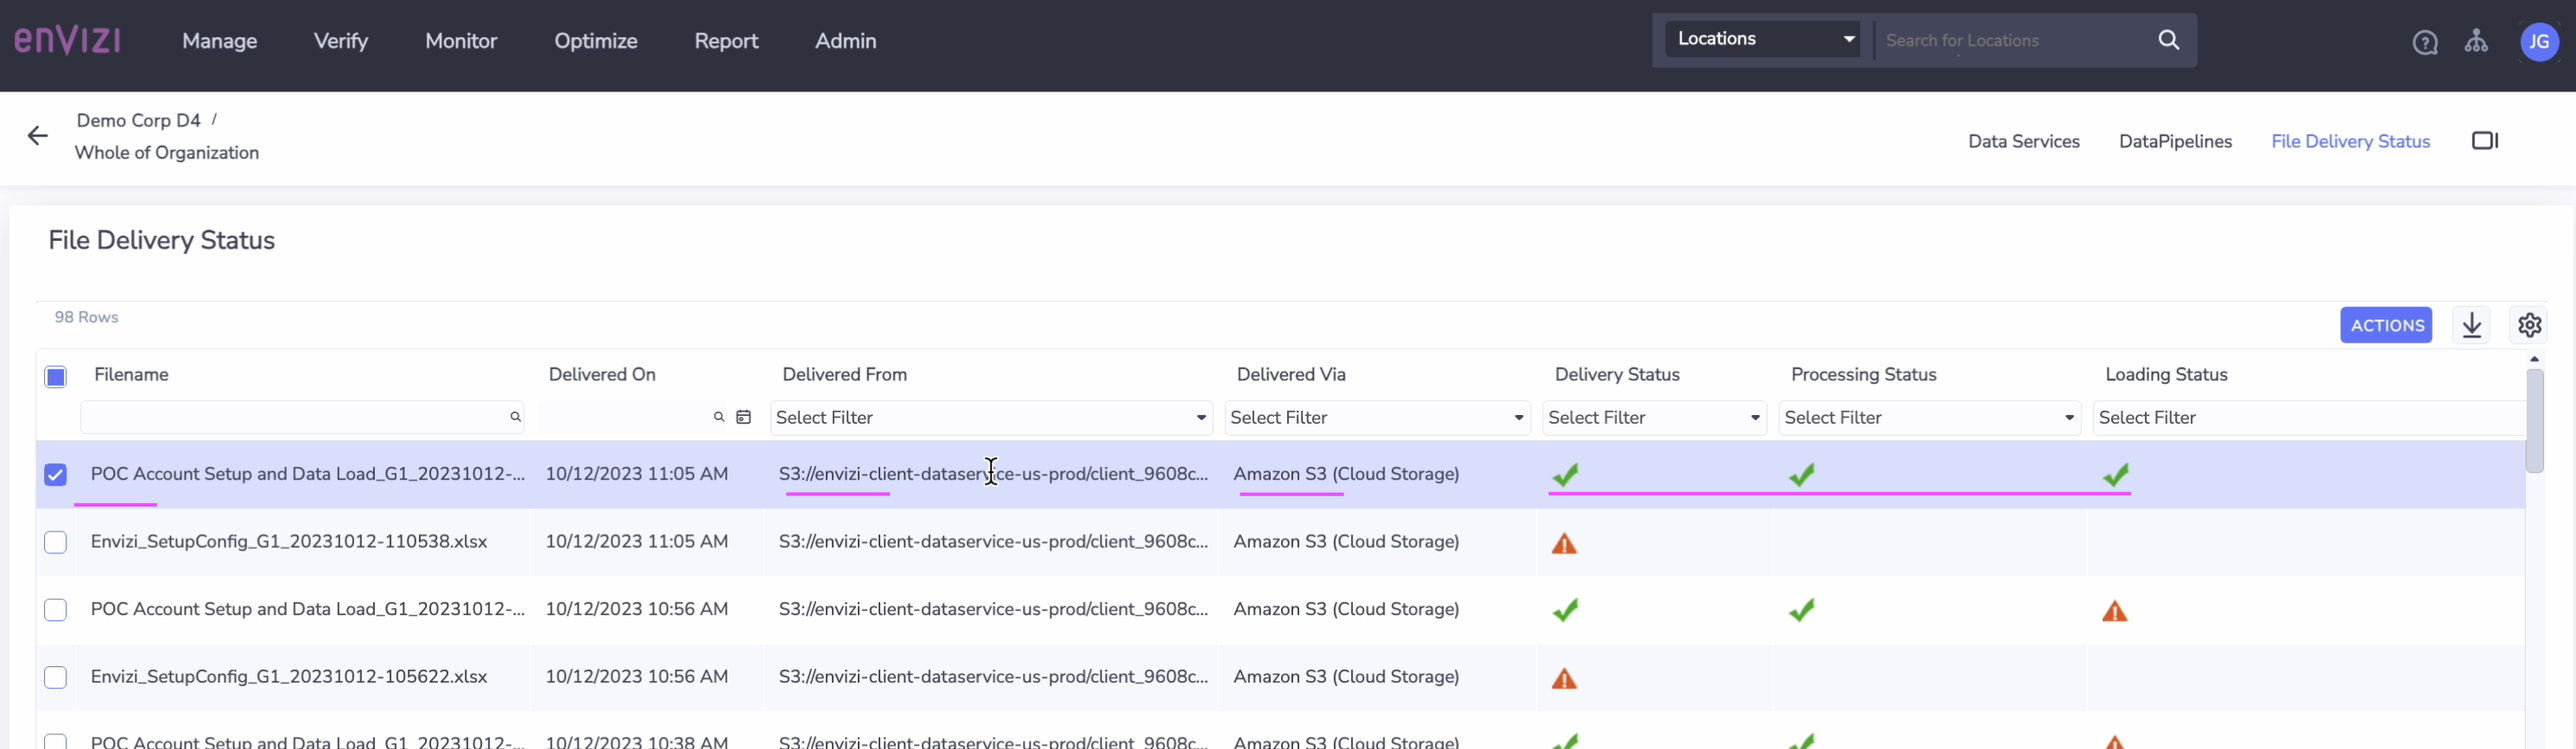
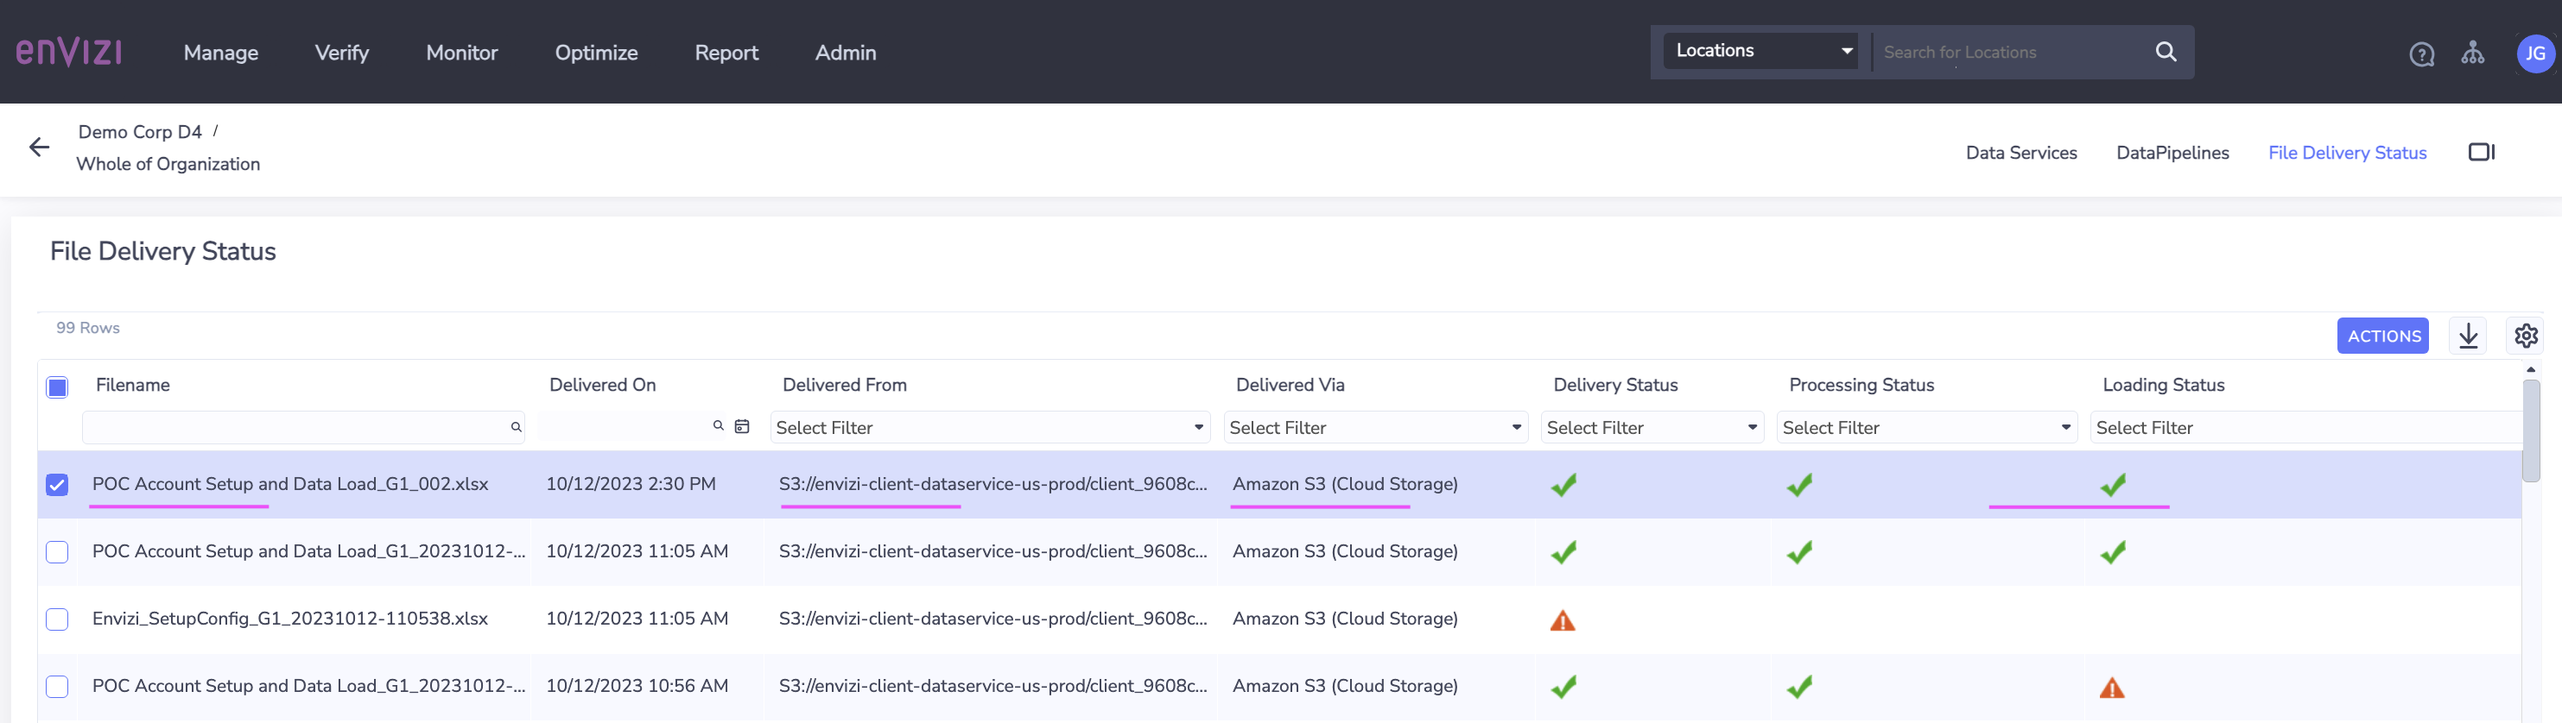
update

diff --git a/python/main.py b/python/main.py
@@ -1,0 +1,32 @@
+import boto3
+from botocore.exceptions import NoCredentialsError
+import os
+from dotenv import load_dotenv
+
+def pushFileToS3():
+	load_dotenv()
+
+	s3_BUCKET_NAME = os.getenv("s3_BUCKET_NAME", None)
+	s3_FOLDER_NAME= os.getenv("s3_FOLDER_NAME", None)
+	s3_ACCESS_KEY = os.getenv("s3_ACCESS_KEY", None)
+	s3_SECRET_KEY = os.getenv("s3_SECRET_KEY", None)
+
+	print(f" s3_BUCKET_NAME : {s3_BUCKET_NAME}")
+	print(f" s3_FOLDER_NAME : {s3_FOLDER_NAME}")
+
+	fileNameToUpLoad = "./data.xlsx"
+	s3FileName = s3_FOLDER_NAME + "/POC Account Setup and Data Load_G1_002.xlsx"
+
+	try:
+		s3 = boto3.client('s3', aws_access_key_id=s3_ACCESS_KEY, aws_secret_access_key=s3_SECRET_KEY)
+		s3.upload_file(fileNameToUpLoad, s3_BUCKET_NAME, s3FileName)
+		print(f'{fileNameToUpLoad} is uploaded to {s3_BUCKET_NAME}  : {s3FileName}')
+	except Exception as e:
+		print(f' Error in pushFileToS3 : {e} ')
+	return 0
+
+def main():
+	pushFileToS3()
+
+main()
+

diff --git a/readme.md b/readme.md
@@ -1,9 +1,9 @@
-# Envizi - Dataflow automation with S3 and Universal Data Connector
+# Envizi Dataflow automation - Sending UDC excel to S3 for data ingestion
 
-This article explains the step by step instruction about how to send Universal Data Connector excel to Envizi via S3 Data Service.
+This article explains how to setup Envizi Dataflow automation for sending Universal Data Connector excel to Envizi via S3.
 
-- Universal Data Connector excel file for Accounts and Data can be processed.
-
+- Accounts and Data are documented
+- Group and Location are not yet documented
 
 ## 1. Create Data Service for S3
 
@@ -80,11 +80,44 @@ The Data pipeline is created.
 
 ## 3. Push a UDC excel to S3
 
-1. You can push the UDC excel to S3 using the above collected info (Bucket, access key, etc) from the S3 Data Services.
+Lets use the sample python script to push the [./python/data.xls](./python/data.xls) file into S3 now. 
 
-The envizi should have processed your file.
+1. Update the `Location` column in the [./python/data.xls](./python/data.xls) with the some existing location in your envizi environment.
 
-2. Goto file delivery status screen by Clicking on `File Delivery Status`
+2. Goto the `python` folder of this repo in the terminal window.
+```
+cd python
+```
+
+3. Instal the boto3 for python if it is not available in your system.
+```
+python -m pip install boto3
+```
+
+4. Run the below command with your S3 Data service values.
+```
+export s3_BUCKET_NAME=envizi-client-dataservice-us-prod
+export s3_FOLDER_NAME=client_9608cd600af647
+export s3_ACCESS_KEY=AKIxxxxxxxxxxxxxxx
+export s3_SECRET_KEY=axhHxxxxxxxxxxxxxx
+```
+5. Run the below command to push the file to S3
+```
+python main.py
+```
+
+you may get the output like this..
+```
+S3Handler  ...
+ ENVIZI_S3_AWS_BUCKET_NAME : envizi-client-dataservice-us-prod
+ ENVIZI_S3_AWS_FOLDER_NAME : client_9608cd600af647
+output/results-10122023-110535-725742/POC Account Setup and Data Load_G1_20231012-110543.xlsx is uploaded to envizi-client-dataservice-us-prod  : client_9608cd600af647/POC Account Setup and Data Load_G1_20231012-110543.xlsx
+2023-10-12 11:05:45,747 - INFO:127.0.0.1 - - [12/Oct/2023 11:05:45] "POST /api/turbo/query HTTP/1.1" 200 -
+```
+
+The envizi should have processed your file now.
+
+6. Goto file delivery status screen by Clicking on `File Delivery Status`
 
 <img src="images/img-19.png">
 
